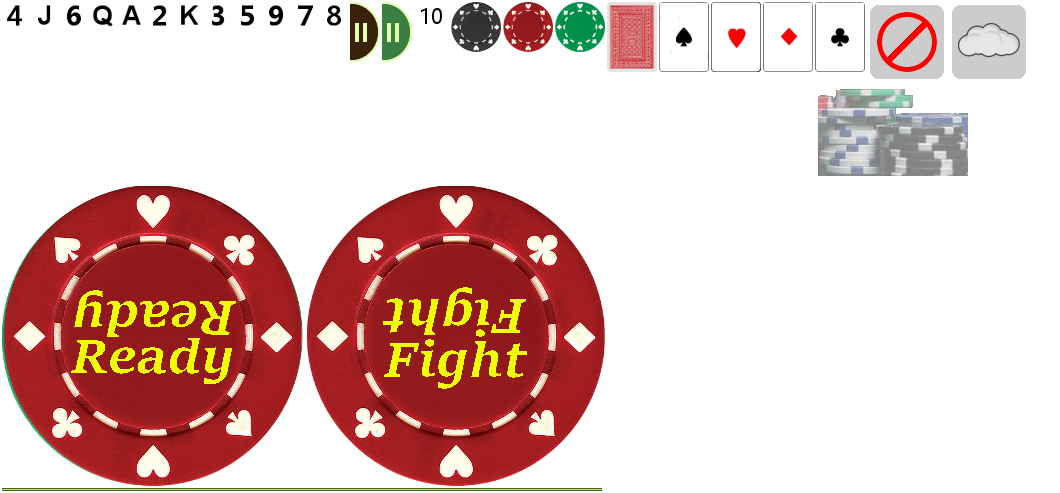
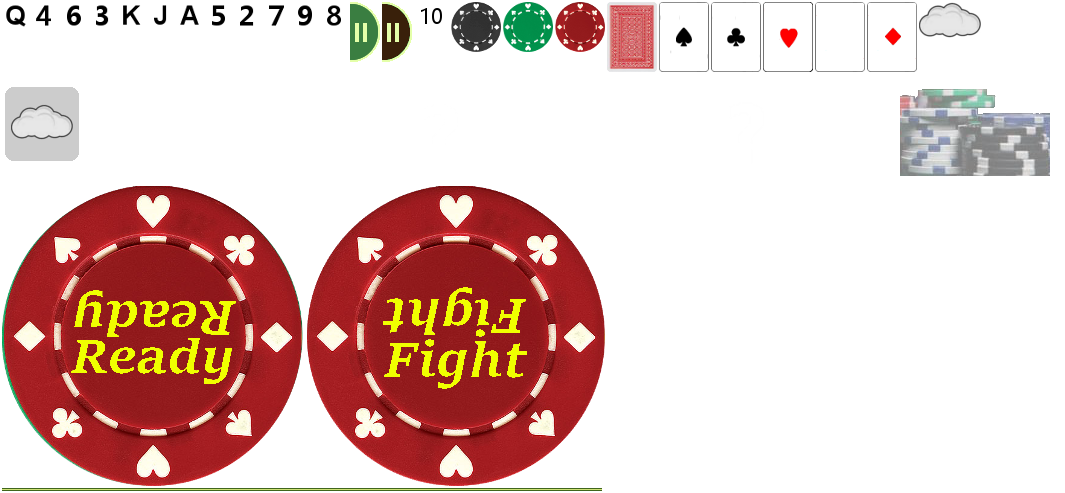
change two pair sound;change skill to item;

diff --git a/src/player.js b/src/player.js
@@ -48,7 +48,8 @@ var PlayerModel = Backbone.Model.extend({
             money : 1000,
             hands: [],
             speedDown: 0,
-            speedUp: 0
+            speedUp: 0,
+            item: null
         }
     },
     addHand:function(cardModel){
@@ -71,6 +72,12 @@ var PlayerModel = Backbone.Model.extend({
         return this.get("hands").length < MAX_HAND;
     },
 
+    is5ofAKind:function(cards) {
+        if (cards[0].get("number") === cards[1].get("number") && cards[0].get("number") === cards[2].get("number") && cards[0].get("number") === cards[3].get("number") && cards[0].get("number") === cards[4].get("number") ) {
+            return true;
+        }
+        return false;
+    },
     isFlushStraight:function(cards){
         return this.isFlush(cards) && this.isStraight(cards);
     },
@@ -150,45 +157,49 @@ var PlayerModel = Backbone.Model.extend({
         for ( var i = this.get("hands").length; i < MAX_HAND; i++ ) {
             cards.push( new PokerCardModel({
                 number : -i,
-                suit: 4 + i
+                suit: 5 + i
             }))
         }
 
         var power, type, theCard, rate;
-        if ( this.isFlushStraight(cards) ) {
-            power = 10000 + cards[0].get("number") * 10 + (10 - cards[0].get("suit"));
+        if ( this.is5ofAKind(cards) ) {
+            power = 11000 + cards[0].get("number") * 20 + (19 - cards[0].get("suit"));
+            type = "five-of-a-kind"
+            rate = 100;
+        } else if ( this.isFlushStraight(cards) ) {
+            power = 10000 + cards[0].get("number") * 20 + (19 - cards[0].get("suit"));
             type = "straight-flush"
             rate = 50;
         } else if ( theCard = this.is4ofAKind(cards) ) {
-            power = 9000 + theCard.get("number") * 10 + (10 - theCard.get("suit"));
+            power = 9000 + theCard.get("number") * 20 + (19 - theCard.get("suit"));
             type = "four-of-a-kind";
             rate = 40;
         } else if ( theCard = this.isFullHouse(cards) ) {
-            power = 8000 + theCard.get("number") * 10 + (10 - theCard.get("suit"));
+            power = 8000 + theCard.get("number") * 20 + (19 - theCard.get("suit"));
             type = "full-house";
             rate = 30;
         } else if ( this.isFlush(cards) ) {
-            power = 7000 + cards[0].get("number") * 10 + (10 - cards[0].get("suit"));
+            power = 7000 + cards[0].get("number") * 20 + (19 - cards[0].get("suit"));
             type = "flush";
             rate = 20;
         } else if ( this.isStraight(cards) ) {
-            power = 6000 + cards[0].get("number") * 10 + (10 - cards[0].get("suit"));
+            power = 6000 + cards[0].get("number") * 20 + (19 - cards[0].get("suit"));
             type = "straight";
             rate = 15;
         } else if ( theCard = this.is3ofAKind(cards) ) {
-            power = 5000 + theCard.get("number") * 10 + (10 -theCard.get("suit"));
+            power = 5000 + theCard.get("number") * 20 + (19 -theCard.get("suit"));
             type = "three-of-a-kind";
             rate = 10;
         } else if ( theCard = this.is2Pair(cards) ) {
-            power = 4000 + theCard.get("number") * 10 + (10 -theCard.get("suit"));
+            power = 4000 + theCard.get("number") * 20 + (19 -theCard.get("suit"));
             type = "two-pair";
             rate = 4;
         } else if ( theCard = this.isPair(cards) ) {
-            power = 3000 + theCard.get("number") * 10 + (10 -theCard.get("suit"));
+            power = 3000 + theCard.get("number") * 20 + (19 -theCard.get("suit"));
             type = "one-pair";
             rate = 2;
         } else if ( cards[0].get("number") > 0 ) {
-            power = 2000 + cards[0].get("number") * 10 + (10 -cards[0].get("suit"));
+            power = 2000 + cards[0].get("number") * 20 + (19 -cards[0].get("suit"));
             type = "high-card";
             rate = 1;
         } else {
@@ -255,9 +266,27 @@ var PlayerSprite = cc.Sprite.extend({
         }
         this.addChild(moneySprite);
 
+        var itemSprite = new ItemSprite();
+        if ( this.model.get("position") == PLAYER_POSITION_DOWN ) {
+            itemSprite.attr({
+                x:cc.winSize.width - 45,
+                y: 45
+            });
+        } else {
+            itemSprite.attr({
+                x:45,
+                y: cc.winSize.height - 45,
+                rotation: 180
+            });
+        }
+        this.addChild(itemSprite);
+        if ( this.model.get("item") ) {
+            itemSprite.setItemModel(new ITEM_MODEL_CLASS_MAP[this.model.get("item")]())
+        } else itemSprite.setItemModel(null);
+
         this.moneyLabel = new ccui.Text(this.model.get("money"), "Arial", 40 );
-        this.moneyLabel.enableOutline(cc.color.BLACK, 2);
-        this.moneyLabel.setTextColor(cc.color.WHITE);
+        this.moneyLabel.enableOutline(cc.color.WHITE, 2);
+        this.moneyLabel.setTextColor(cc.color.BLACK);
         if ( this.model.get("position") == PLAYER_POSITION_DOWN ) {
             this.moneyLabel.attr({
                 //color: colors.tableLabel,

diff --git a/src/item.js b/src/item.js
@@ -1,0 +1,127 @@
+var ItemModel = Backbone.Model.extend({
+    defaults:function(){
+        return {
+            displayName:"",
+            maxCharge: 1,
+            durationTime: 1,
+            maxCoolDown: 1,
+            description:"牛X的人不需要使用技能",
+            showCharge: false
+        }
+    },
+    initialize:function(){
+        this.set({
+            charge: this.get("maxCharge"),
+            coolDown: 0
+        });
+    },
+    effect:function(){
+
+    },
+    canUse:function(){
+        return this.get("charge") > 0 && this.get("coolDown") <= 0;
+    }
+});
+
+var CloudItemModel = ItemModel.extend({
+    defaults:function(){
+        return {
+            name:"cloud",
+            displayName:"唤云",
+            maxCharge: 5,
+            durationTime: 10,
+            maxCoolDown: 10,
+            description:"召唤云朵干扰对手挑牌",
+            showCharge: true
+        }
+    },
+    effect:function(){
+
+    }
+});
+
+var ItemSprite = cc.Sprite.extend({
+    ctor:function(options) {
+        this._super();
+
+        this.chargeLabel = new ccui.Text("", "Arial", 30 );
+        this.chargeLabel.enableOutline(cc.color.WHITE, 2);
+        this.chargeLabel.setTextColor(cc.color.BLACK);
+        this.chargeLabel.attr({
+            x: 70,
+            y: 10
+        })
+        this.addChild(this.chargeLabel);
+
+        this.listener = cc.EventListener.create({
+            event: cc.EventListener.TOUCH_ONE_BY_ONE,
+            swallowTouches: true,
+            onTouchBegan: function (touch, event) {
+                var target = event.getCurrentTarget();
+
+                var locationInNode = target.convertToNodeSpace(touch.getLocation());
+                var s = target.getContentSize();
+                var rect = cc.rect(0, 0, s.width, s.height);
+
+                //Check the click area
+                if (cc.rectContainsPoint(rect, locationInNode)) {
+                    if ( target.model && target.model.canUse.call(target.model) )
+                        return true;
+                }
+                return false;
+            },
+            //Trigger when moving touch
+            onTouchMoved: function (touch, event) {
+            },
+            //Process the touch end event
+            onTouchEnded: function (touch, event) {
+                var target = event.getCurrentTarget();
+                target.useItem.call(target);
+            }
+        });
+
+        this.initEvent();
+    },
+    initEvent:function(){
+        cc.eventManager.addListener( this.listener, this);
+    },
+    setItemModel:function(model){
+        if ( this.model ) {
+            this.model.off();
+            delete this.model;
+        }
+
+        this.model = model;
+
+        if ( this.model ) {
+            this.setSpriteFrame(cc.spriteFrameCache.getSpriteFrame("item-" + this.model.get("name") + ".png"));
+            this.chargeLabel.setVisible(this.model.get("showCharge"));
+            this.renderCharge();
+            this.model.on("change:charge", this.renderCharge, this);
+        } else {
+            this.chargeLabel.setVisible(false);
+            this.setSpriteFrame(cc.spriteFrameCache.getSpriteFrame("no-item.png"));
+        }
+    },
+    renderCharge:function(){
+        this.chargeLabel.setString(this.model.get("charge"));
+    },
+    useItem:function(){
+        this.model.set("coolDown", this.model.get("maxCoolDown") );
+        this.model.set("charge", this.model.get("charge") - 1);
+        this.model.effect();
+        if ( this.model.get("charge") <= 0 ) {
+            this.setItemModel(null);
+        } else {
+            this.setVisible(false);
+            this.runAction(new cc.Sequence(new cc.DelayTime(this.model.get("maxCoolDown")),
+                new cc.CallFunc(function () {
+                    this.setVisible(true);
+                }, this)));
+        }
+    }
+});
+
+var ITEM_MODEL_CLASS_MAP = {
+    "cloud": CloudItemModel
+}

diff --git a/src/app.js b/src/app.js
@@ -196,16 +196,17 @@ var MainLayer = cc.LayerColor.extend({
             onTouchMoved: function (touch, event) {
                 var target = event.getCurrentTarget();
                 var locationInNode = target.convertToNodeSpace(touch.getLocation());
+                var touchId = cc.isNative ? touch.getID() : touch.__instanceId;
                 _.each( target.getChildren(), function(sprite){
-                    if ( sprite instanceof PokerCardSprite && !sprite.alreadyTaken && (!target._touchInstanceUsed[touch.getID()] || sprite.touchingInstanceId == touch.getID() ) ) {
+                    if ( sprite instanceof PokerCardSprite && !sprite.alreadyTaken && (!target._touchInstanceUsed[touchId] || sprite.touchingInstanceId === touchId ) ) {
                         var padding = 0;
                         var rect = cc.rect(sprite.x-sprite.width/2+padding, sprite.y-sprite.height/2+padding, sprite.width-2*padding,sprite.height-2*padding);
 
                         //Check the click area
                         if (cc.rectContainsPoint(rect, locationInNode)){
                             sprite.stopAllActions();
-                            sprite.touchingInstanceId = touch.getID();
-                            target._touchInstanceUsed[touch.getID()] = true;
+                            sprite.touchingInstanceId = touchId;
+                            target._touchInstanceUsed[touchId] = true;
                             var delta = touch.getDelta();
                             sprite.x += delta.x;
                             sprite.y += delta.y;
@@ -219,9 +220,9 @@ var MainLayer = cc.LayerColor.extend({
                             } else {
                                 sprite.speedY = delta.y;
                             }
-                        } else if ( sprite.touchingInstanceId == touch.getID() ) {
+                        } else if ( sprite.touchingInstanceId === touchId ) {
                             sprite.touchingInstanceId = null;
-                            delete target._touchInstanceUsed[touch.getID()];
+                            delete target._touchInstanceUsed[touchId];
                             sprite.onTouchRelease.call(sprite);
                         }
                     }
@@ -232,18 +233,19 @@ var MainLayer = cc.LayerColor.extend({
                 var target = event.getCurrentTarget();
                 var locationInNode = target.convertToNodeSpace(touch.getLocation());
                 var prevLocationInNode = target.convertToNodeSpace(touch.getPreviousLocation());
+                var touchId = cc.isNative ? touch.getID() : touch.__instanceId;
                 _.each( target.getChildren(), function(sprite){
                     if ( sprite instanceof PokerCardSprite && !sprite.alreadyTaken ) {
                         var rect = cc.rect(sprite.x-sprite.width/2, sprite.y-sprite.height/2, sprite.width,sprite.height);
 
                         //Check the click area
-                        if ( sprite.touchingInstanceId == touch.getID() ){
+                        if ( sprite.touchingInstanceId === touchId ){
                             sprite.touchingInstanceId = null;
                             sprite.onTouchRelease.call(sprite);
                         }
                     }
                 },target);
-                delete target._touchInstanceUsed[touch.getID()];
+                delete target._touchInstanceUsed[touchId];
             }
         }), this);
     },
@@ -562,7 +564,6 @@ var MainLayer = cc.LayerColor.extend({
         } else {
             this.sound = 0.5;
         }
-        cc.log(this.sound)
         cc.audioEngine.setEffectsVolume(this.sound);
     },
     gameOver:function(){

diff --git a/main.js b/main.js
@@ -56,7 +56,7 @@ cc.game.onStart = function(){
     // Adjust viewport meta
     cc.view.adjustViewPort(true);
     // Setup the resolution policy and design resolution size
-    cc.view.setDesignResolutionSize(600, 800, cc.ResolutionPolicy.FIXED_HEIGHT);
+    cc.view.setDesignResolutionSize(600, 800, cc.sys.isNative ? cc.ResolutionPolicy.FIXED_HEIGHT : cc.ResolutionPolicy.SHOW_ALL);
     // The game will be resized when browser size change
     cc.view.resizeWithBrowserSize(true);
     //load resources

diff --git a/src/poker-card.js b/src/poker-card.js
@@ -2,9 +2,10 @@ SUIT_NUMBER_MAP = {
     spade: 0,
     heart : 1,
     club: 2,
-    diamond: 3
+    diamond: 3,
+    blank: 4
 };
-SUIT_ARRAY = ["spade","heart","club","diamond"];
+SUIT_ARRAY = ["spade","heart","club","diamond", "blank"];
 
 var PokerCardModel = Backbone.Model.extend({
     defaults:function(){
